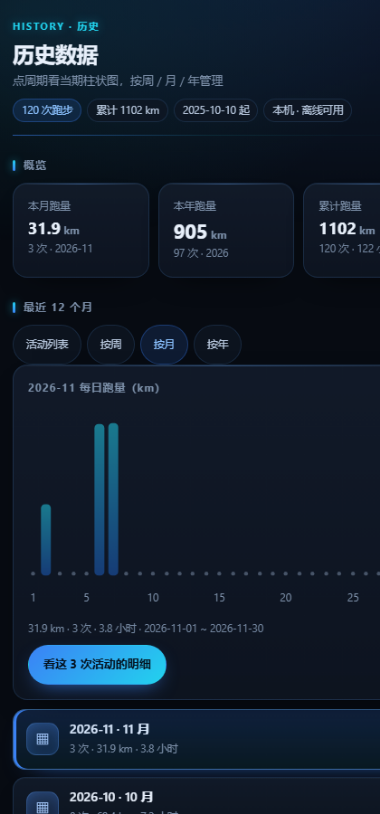
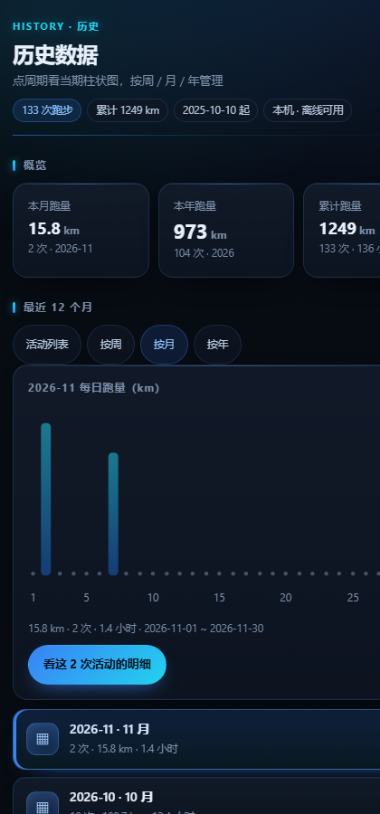
docs: README 截图按 1.0.6 界面重生成，新增「我的」页
- tools/readme_shots.py 加「我的」页截图；同时把 HOME/config 指到临时目录，
  截图只渲染 demo 数据，不会带出本机真实账号、会话与凭据
- docs/img 8 张重生成：一图流 / 活动图 / 回放 / 看板 / 今日 / 历史 / AI 教练 / 我的
- README 手机端改 2×2 截图表；高驰睡眠授权改成「登录时询问」，
  并说明当时点暂不也能在账号卡片里补

diff --git a/tools/readme_shots.py b/tools/readme_shots.py
@@ -117,6 +117,13 @@ def main() -> int:
     import garmin_cn.appapi as A
     A.DB = db
     A.OUT = tmp
+    # 截图里绝不能出现真实账号：把凭据/会话/config 一起指到临时目录，
+    # 所有页面按「未登录」渲染，数据只来自 demo 库。改 HOME 后
+    # status/coros_status/mi_status/hw_status 都读不到本机的 session 与 token。
+    A.HOME = tmp
+    A.CONFIG = tmp / "config.json"
+    from garmin_cn import hrzones as _HZ
+    _HZ.CONFIG = A.CONFIG
 
     from garmin_cn import actcard, aiui, card, history, motion, ui
     from garmin_cn.metrics import derive
@@ -166,6 +173,9 @@ def main() -> int:
         ("app-today", "今日", ui.home_page()),
         ("app-history", "历史", history.history_page({"mode": ["month"]})),
         ("app-ai", "AI 教练", aiui.render({})),
+        # 「我的」：1.0.6 把卡片压到统一 68px、账号行并成一组，
+        # README 里放一张能看出「数据源 / 迁移 / 关于」的实际排布。
+        ("app-me", "我的", ui.me_page()),
     ):
         src = tmp / f"{name}.html"
         src.write_text(html, encoding="utf-8")

diff --git a/README.md b/README.md
@@ -29,18 +29,24 @@
 不给命令行的场合，有一个同内核的安卓 App（`android/`）。它不重画界面，直接渲染同一套 HTML，
 所以**看板、出图、历史、教练**在电脑和手机上长得一模一样。
 
-| 今日 | 历史 | AI 教练 |
-|:--:|:--:|:--:|
-| <img src="docs/img/app-today.png" width="220"> | <img src="docs/img/app-history.png" width="220"> | <img src="docs/img/app-ai.png" width="220"> |
-| 恢复度、负荷、今日处方、最近活动 | 月跑量柱状图 + 周/月/年管理，可一键补全历史 | 用本地算好的数据回答「今天为什么这么练」 |
+| 今日 | 历史 |
+|:--:|:--:|
+| <img src="docs/img/app-today.png" width="220"> | <img src="docs/img/app-history.png" width="220"> |
+| 恢复度、负荷、今日处方、最近活动 | 月跑量柱状图 + 周/月/年管理，可一键补全历史 |
+
+| AI 教练 | 我的 |
+|:--:|:--:|
+| <img src="docs/img/app-ai.png" width="220"> | <img src="docs/img/app-me.png" width="220"> |
+| 用本地算好的数据回答「今天为什么这么练」 | 数据源、迁移、诊断与关于；卡片统一 68px，一页看完 |
 
 再往下是完整的每日看板（点「完整看板」进入，和桌面版同一个页面）：
 
 <p><img src="docs/img/dashboard.png" width="300"></p>
 
-**App 里还有**：下拉同步、历史在后台由近到远自动补齐（每次刷新推一段，最多回溯 8 年）、
-素材批量添加（图片/视频多选）、素材多选删除、再次剪辑、旋转、竖屏素材按真实比例展示、
-一键导出 / 导入数据包（换手机不丢历史）、诊断日志、深空科技风主题。
+**App 里还有**：登录高驰时顺带询问睡眠授权、下拉同步、历史在后台由近到远自动补齐
+（每次刷新推一段，最多回溯 8 年）、素材批量添加（图片/视频多选）、素材多选删除、
+再次剪辑、旋转、竖屏素材按真实比例展示、一键导出 / 导入数据包（换手机不丢历史）、
+诊断日志、深空科技风主题。
 
 ---
 
@@ -49,7 +55,7 @@
 | 数据源 | 怎么接 | 能拿到什么 |
 |---|---|---|
 | **佳明国区**（connect.garmin.cn） | 账号密码登录 / 导入 Cookie / 会话自动续期 | 最全：日汇总、睡眠分期、HRV、压力、血氧、呼吸、身体电量、活动列表 + 1Hz 明细、训练计划、课表推送 |
-| **高驰 COROS**（Training Hub + 官方 MCP） | 账号密码登录（活动/每日指标）；睡眠另用官方 MCP 授权一次 | 活动（轨迹、分圈、心率、功率、爬升）+ 每日静息心率 / HRV / 训练负荷 / VO2max / 步数卡路里 + **睡眠评分与分期**（走官方 MCP，不踢手机 App） |
+| **高驰 COROS**（Training Hub + 官方 MCP） | 账号密码登录；登录时直接问要不要授权睡眠（官方 MCP），也可以之后再补 | 活动（轨迹、分圈、心率、功率、爬升）+ 每日静息心率 / HRV / 训练负荷 / VO2max / 步数卡路里 + **睡眠评分与分期**（走官方 MCP，不踢手机 App） |
 | **小米健康云**（可选） | 账号登录，AES 私有协议 | 体重、体脂、肌肉量、水分等体成分 |
 | **华为运动健康**（可选） | 导入会话或 HAR 抓包登录，token 自动续期 | 体重、体脂、肌肉量、水分等体成分（云端读，不依赖手机） |
 | **体成分 CSV** | 直接导入体脂秤导出文件 | 同上，不依赖任何云 |
@@ -61,8 +67,9 @@
 已知边界（不粉饰）：
 
 - 佳明只支持**国区**，国际区接口不同，未适配。
-- 高驰的**睡眠**不在网页接口里：要先在「我的 → 高驰睡眠」做一次官方 MCP 授权（OAuth，
+- 高驰的**睡眠**不在网页接口里：登录高驰账号时会直接问要不要授权（OAuth，
   打开高驰登录页点同意，access token 30 天自动续期），之后下拉刷新会自动带上睡眠。
+  当时点了「暂不」也没关系，在「我的 → 高驰 COROS」的账号卡片里随时能补授权。
   走的是官方网关，**不会把你手机上的高驰 App 挤下线**；没授权就只是没有睡眠，其余照常。
 - 高驰没有训练计划接口，这类功能自动回落到佳明或本地课表。
 
